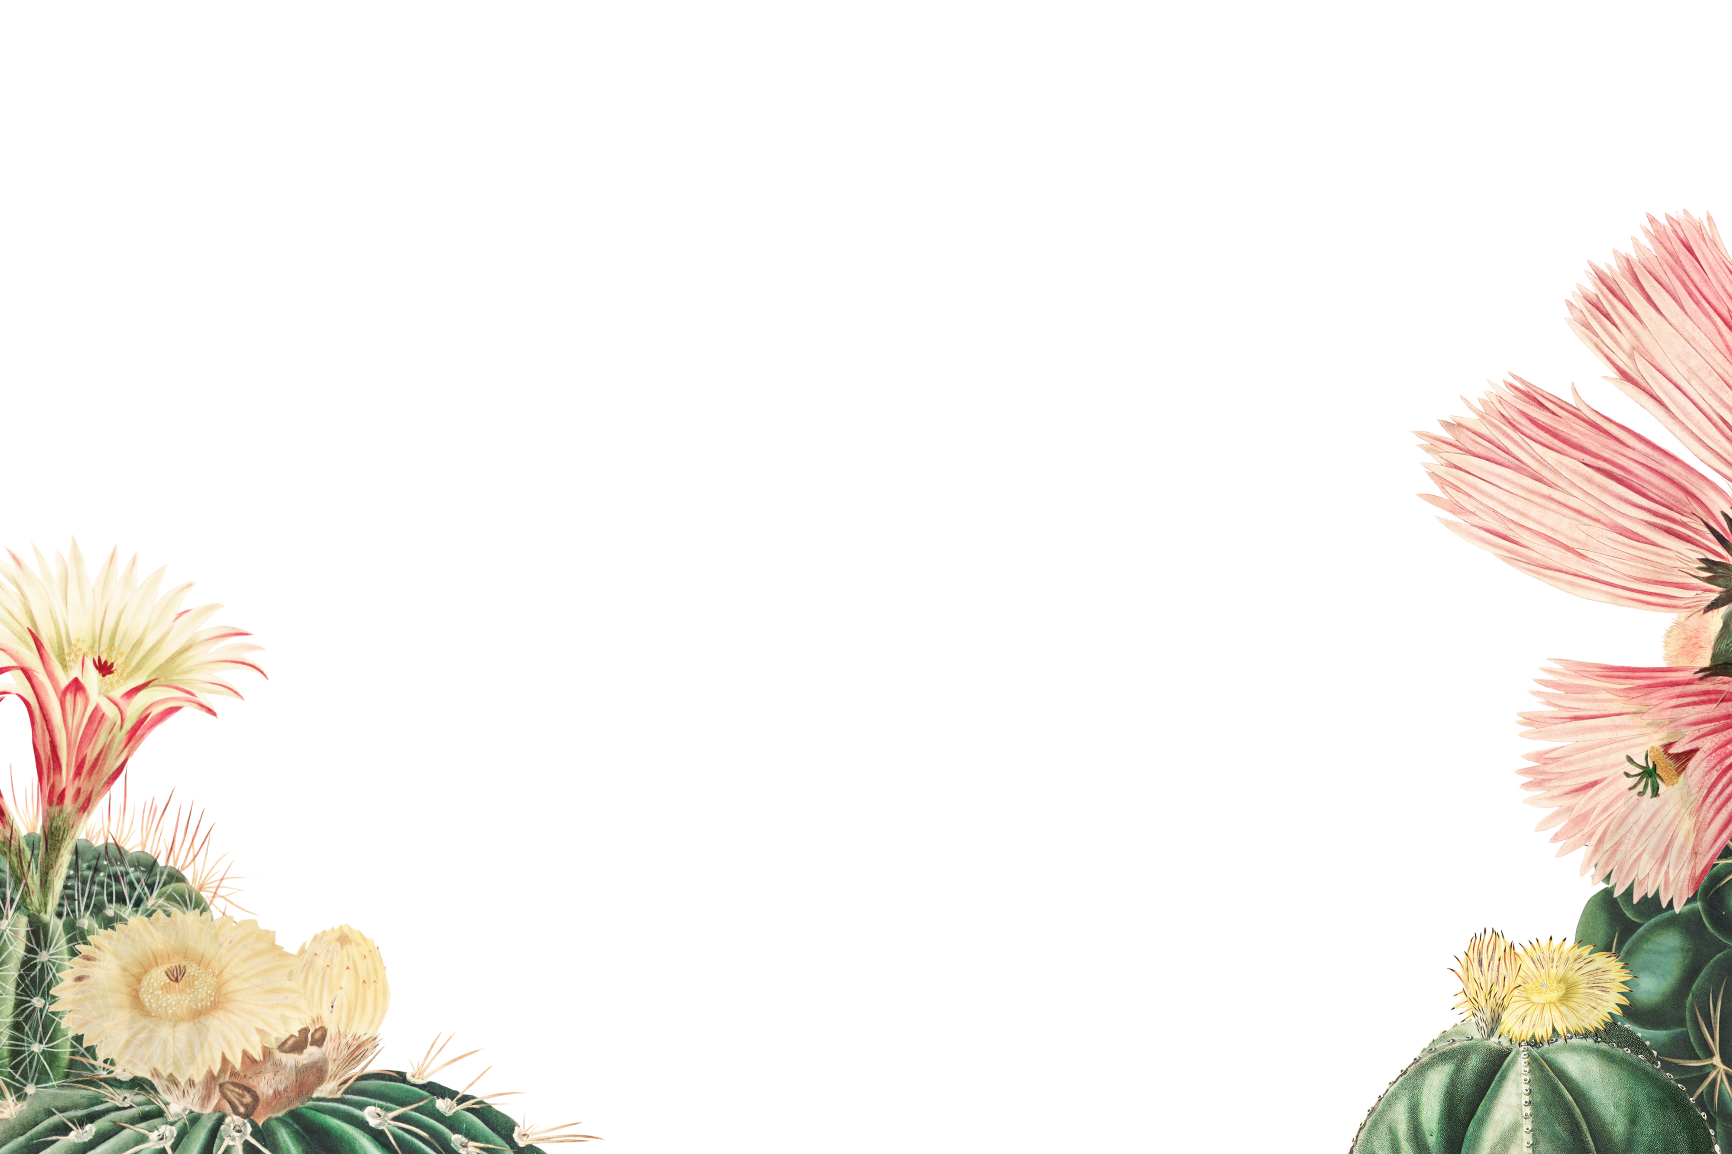
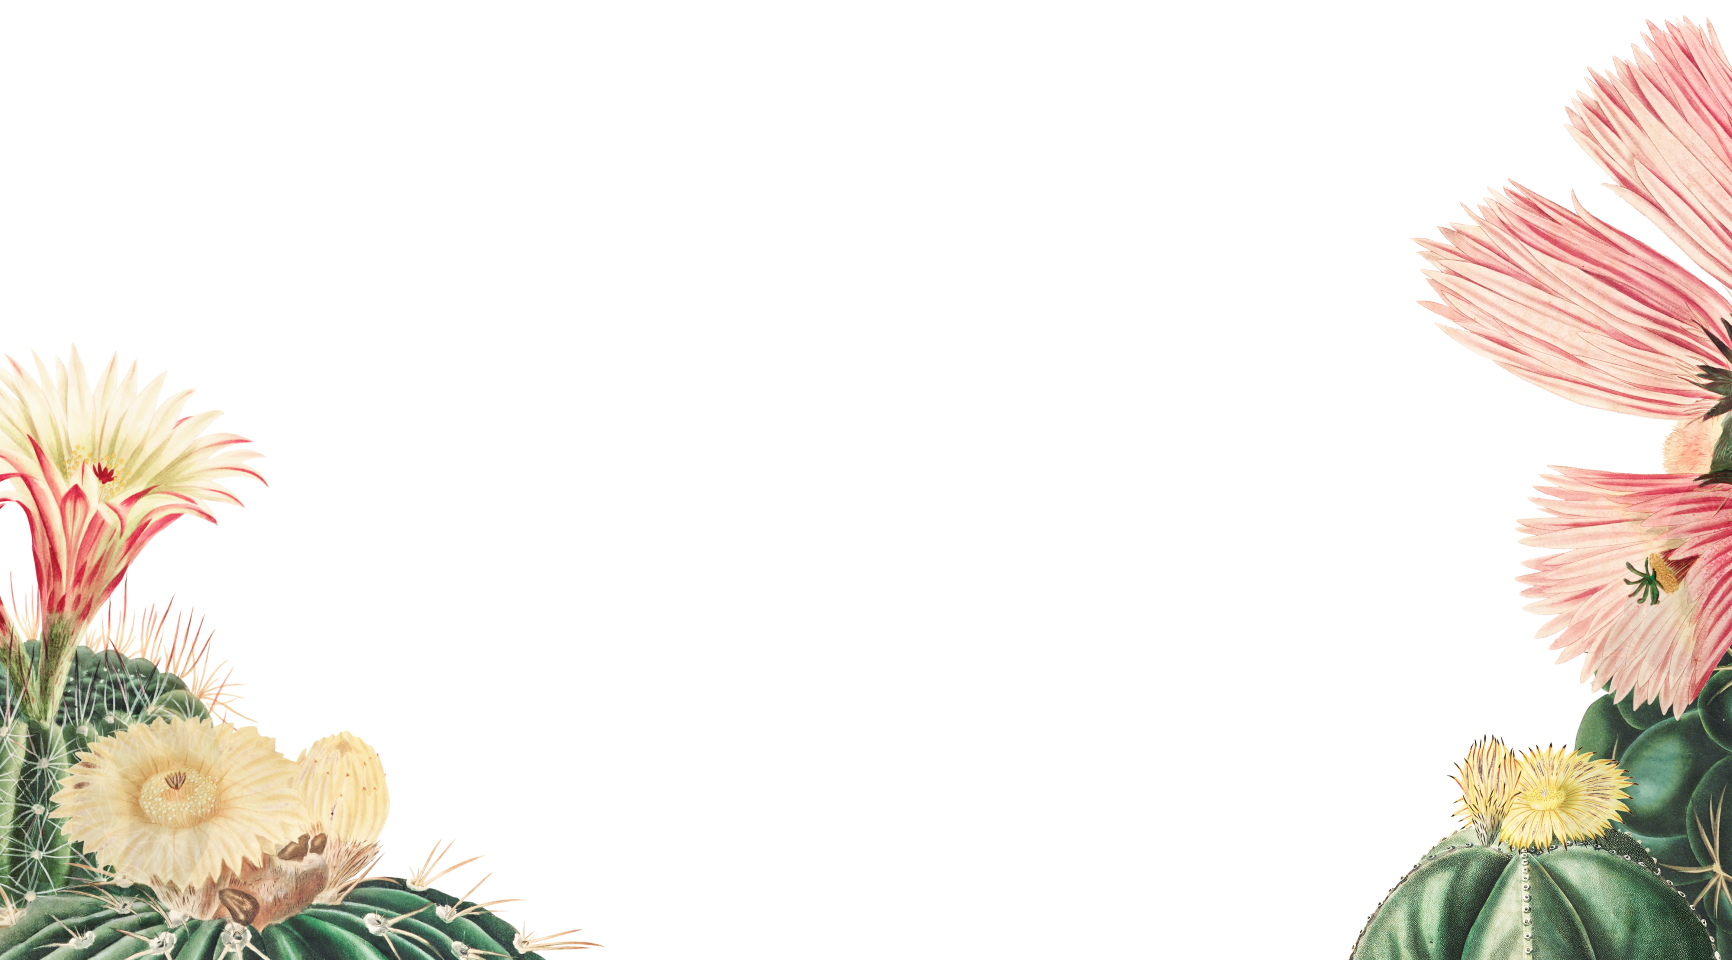
padding removed

Changed region(s): [[0.7794, 0.0, 1.0, 1.0], [0.0, 0.375, 0.343, 1.0]]

diff --git a/src/contact.html b/src/contact.html
@@ -59,30 +59,27 @@
   <div class="modal-dialog">
     <div class="modal-content">
       <div class="modal-header">
+      </div>
         <div class="modal-body">
-        <form
-            action="https://formspree.io/f/xqkwdqbe"
-            method="POST"
-        >
-        <div class="mb-3">
-        <label for="recipient-name" class="col-form-label"></label>
-            Your email:
-            <input type="email" name="_replyto" class="form-control" >
-        </div>
-        <div class="mb-3">    
-        <label for="message-text" class="col-form-label"></label>
-            Message:
-            <textarea name="message" class="form-control"></textarea>
-        </div>
-        </form>
+          <form name="contact" method="POST" data-netlify="true">
+            <p>
+              <label>Your Name: <input type="text" name="name" /></label>   
+            </p>
+            <p>
+              <label>Your Email: <input type="email" name="email" /></label>
+            </p>
+            <p>
+              <label>Message: <textarea name="message"></textarea></label>
+            </p>
+
+            <div class="modal-footer">
+              <button type="button" class="btn btn-secondary" data-bs-dismiss="modal">Close</button>
+              <button type="submit" class="btn btn-primary">Send</button>
+            </div>
+          </form>
 
       </div>
 
-      </div>
-      <div class="modal-footer">
-        <button type="button" class="btn btn-secondary" data-bs-dismiss="modal">Close</button>
-        <button type="submit" class="btn btn-primary">Send message</button>
-      </div>
     </div>
   </div>
 </div>

diff --git a/src/style.css b/src/style.css
@@ -56,11 +56,11 @@ h4 {
     top: 450px !important;
 }
 .nopal {
-    background-image: url("/photos/cacti82.png");
+    background-image: url("/photos/cacti823.png");
     background-repeat: no-repeat;
     background-position: center;
     background-size: cover;
-    padding: 10px 20px 60px;
+    padding: 20px 20px 110px;
 }
 .work {
     margin: 200px auto 105px;
@@ -171,7 +171,7 @@ h4 {
         font-size: 20px;
     }
     .content {
-        margin-top: 30px;
+        margin-top: 0px;
         text-align: center;
     }
     .picture {
@@ -198,5 +198,12 @@ h4 {
     }
     .modal-body {
         text-align: left !important;
+    }
+    .nopal {
+        background-image: url("/photos/cacti82.png");
+        background-repeat: no-repeat;
+        background-position: center;
+        background-size: cover;
+        padding: 1px 20px 80px;
     }
 }

diff --git a/src/about.html b/src/about.html
@@ -48,7 +48,7 @@
   <div class="container">
       <div class="content">
         <div class="row align-items-center">
-          <div class="col-sm-8 ps-5">
+          <div class="col-sm-8 ps-3 pe-3">
               <h1 class="introduction">Hi I am Sandra Lopez</h1>
               <h4 class="mt-3 mb-4">Front-end developer from Mexico</h4>
               <p>Former Aerospace Engineer looking to expand my career.</p> 

diff --git a/src/projects.html b/src/projects.html
@@ -78,7 +78,7 @@
     </div>
     </div>
     <br/>
-    <h3 class="mt-5 mb-5">To see some of my photo projects</h3>
+    <h3 class="mt-5 mb-4">To see some of my photo projects</h3>
     <!--collapse photos-->
     <p class="mb-3">
       <a class="launch" data-bs-toggle="collapse" href="#collapseExample" role="button" aria-expanded="false" aria-controls="collapseExample"><i class="fas fa-camera-retro"></i></a>
